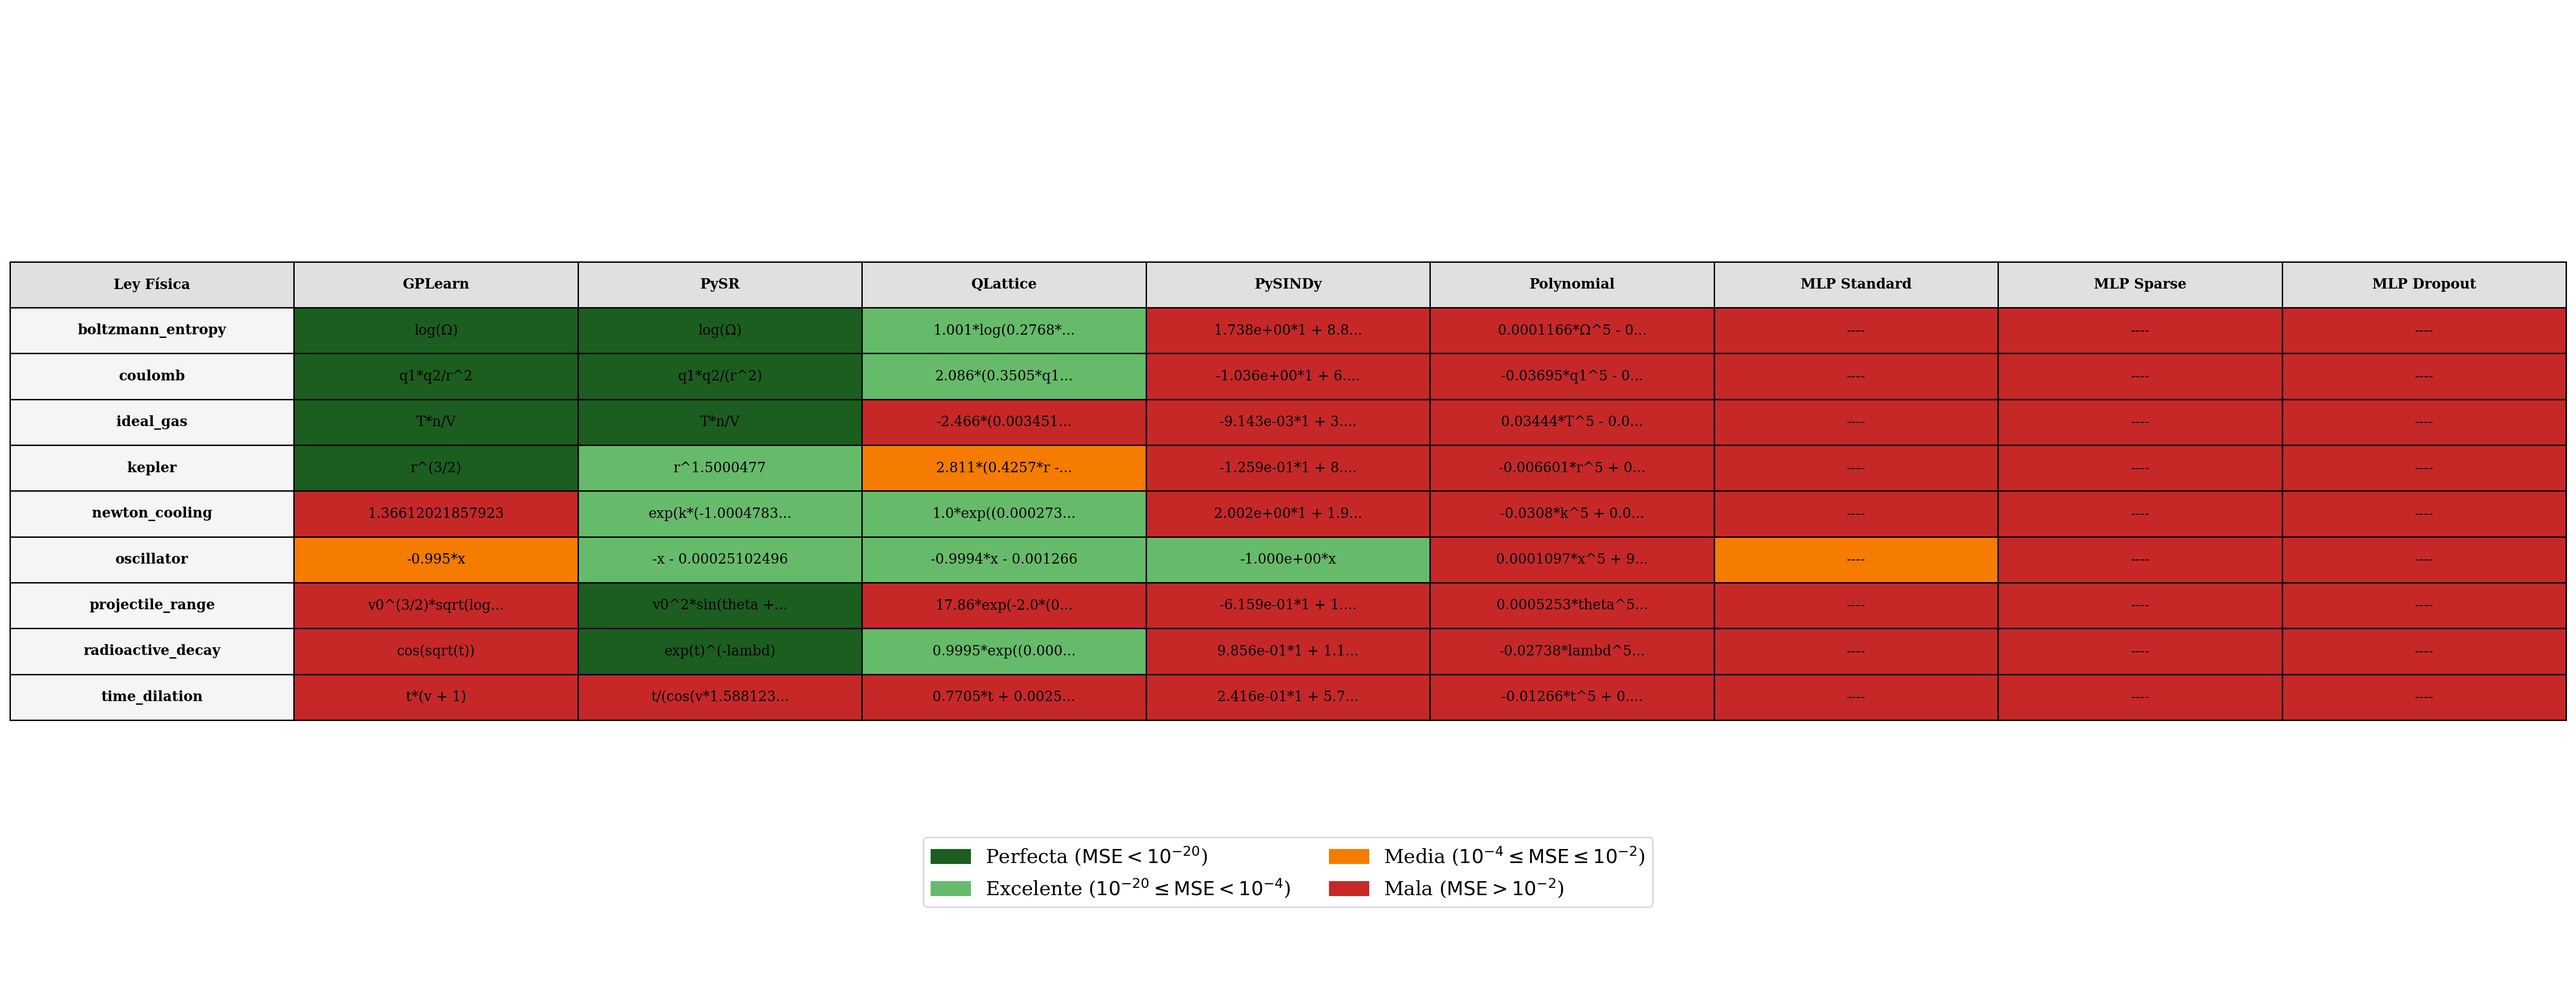
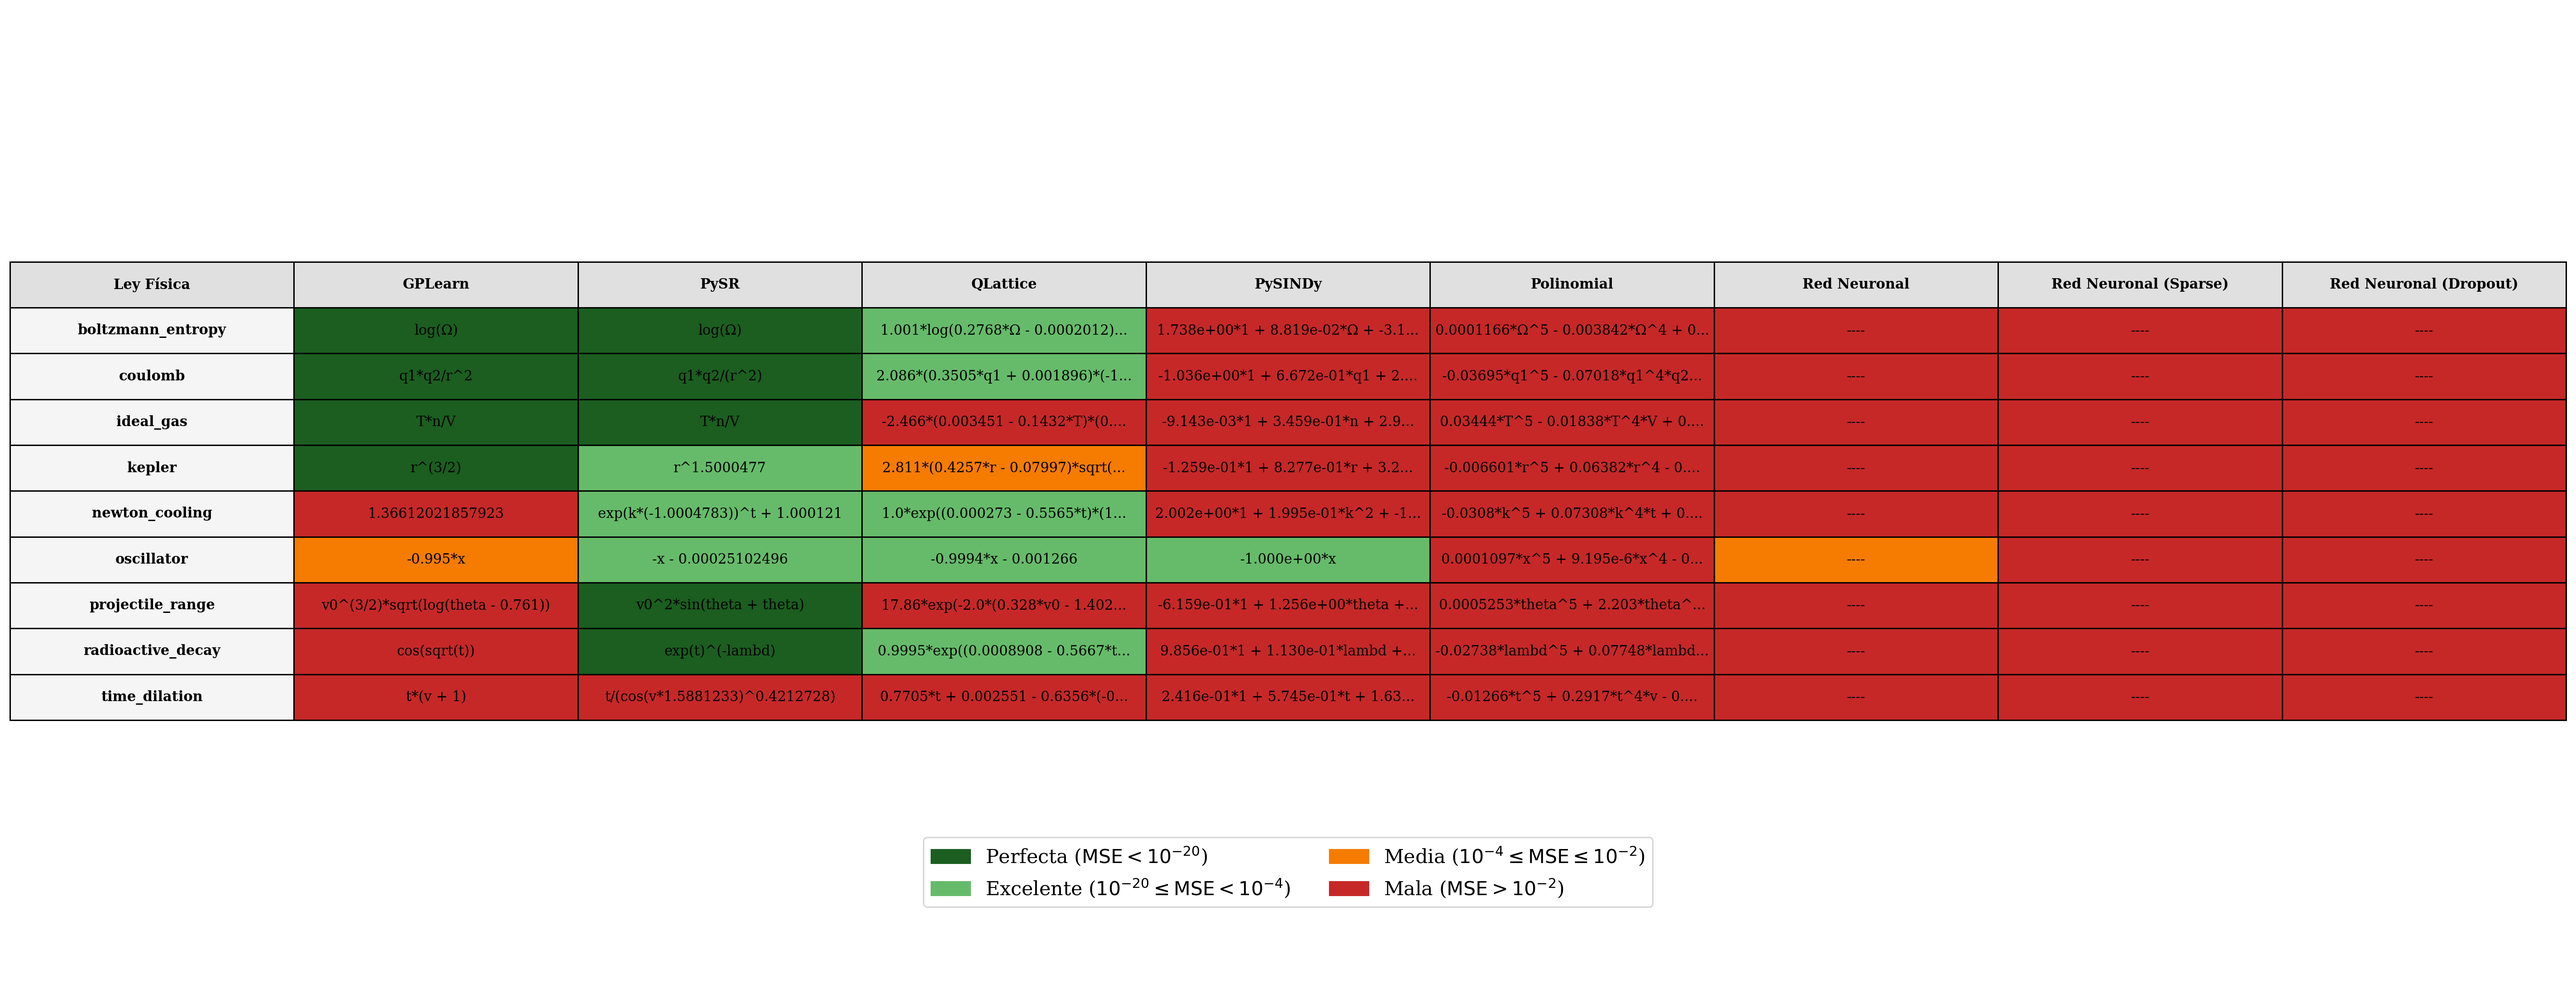
data_tables

diff --git a/src/table_final.py b/src/table_final.py
@@ -49,7 +49,19 @@ MODEL_ORDER = [
     "Polynomial", "MLP_Standard", "MLP_Sparse", "MLP_Dropout"
 ]
 
-MODEL_HEADER = {m: m.replace("_", " ") for m in MODEL_ORDER}
+# 🔥 TRADUCCIÓN A ESPAÑOL
+MODEL_ES = {
+    "GPLearn": "GPLearn",
+    "PySR": "PySR",
+    "QLattice": "QLattice",
+    "PySINDy": "PySINDy",
+    "Polynomial": "Polinomial",
+    "MLP_Standard": "Red Neuronal",
+    "MLP_Sparse": "Red Neuronal (Sparse)",
+    "MLP_Dropout": "Red Neuronal (Dropout)"
+}
+
+MODEL_HEADER = {m: MODEL_ES.get(m, m) for m in MODEL_ORDER}
 
 NOISE_KEYS = ["no_noise", "low_noise", "high_noise"]
 
@@ -129,14 +141,11 @@ def clean_equation(eq: str) -> str:
     return eq.strip()
 
 # ─────────────────────────────────────────────────────────────
-# ⭐ NUEVO: ajuste dinámico por columna
+# CELL FIT
 # ─────────────────────────────────────────────────────────────
 
 def compute_max_chars_per_col(fig_width, n_cols, base=180):
-    """
-    Aproximación: más columnas => menos caracteres por celda
-    """
-    return max(15, int(base / n_cols))
+    return max(35, int(base / n_cols))
 
 
 def truncate_to_cell_width(text, max_chars):
@@ -147,7 +156,6 @@ def truncate_to_cell_width(text, max_chars):
         return text
 
     return text[:max_chars - 3].rstrip() + "..."
-
 
 # ─────────────────────────────────────────────────────────────
 # COLOR LOGIC
@@ -185,7 +193,6 @@ def build_table(df, ood, noise, laws, models):
                 (df["noise"] == noise)
             ]
 
-            # ── BLOQUE CORREGIDO ──
             is_nn = model.startswith("MLP")
 
             if is_nn:
@@ -221,11 +228,9 @@ def render(cell_text, cell_colors, laws, models, law_names, out_path):
     fig, ax = plt.subplots(figsize=(26, 10))
     ax.axis("off")
 
-    # ── CALC WIDTH PER COLUMN ──
     n_cols = len(models) + 1
     max_chars = compute_max_chars_per_col(fig.get_figwidth(), n_cols)
 
-    # APPLY TRUNCATION
     cell_text = [
         [truncate_to_cell_width(txt, max_chars) for txt in row]
         for row in cell_text
@@ -256,8 +261,6 @@ def render(cell_text, cell_colors, laws, models, law_names, out_path):
 
         if c == 0:
             cell.set_text_props(weight="bold")
-
-    # ───────── LEGEND ─────────
 
     legend = [
         mpatches.Patch(color=PERFECT_GREEN,
